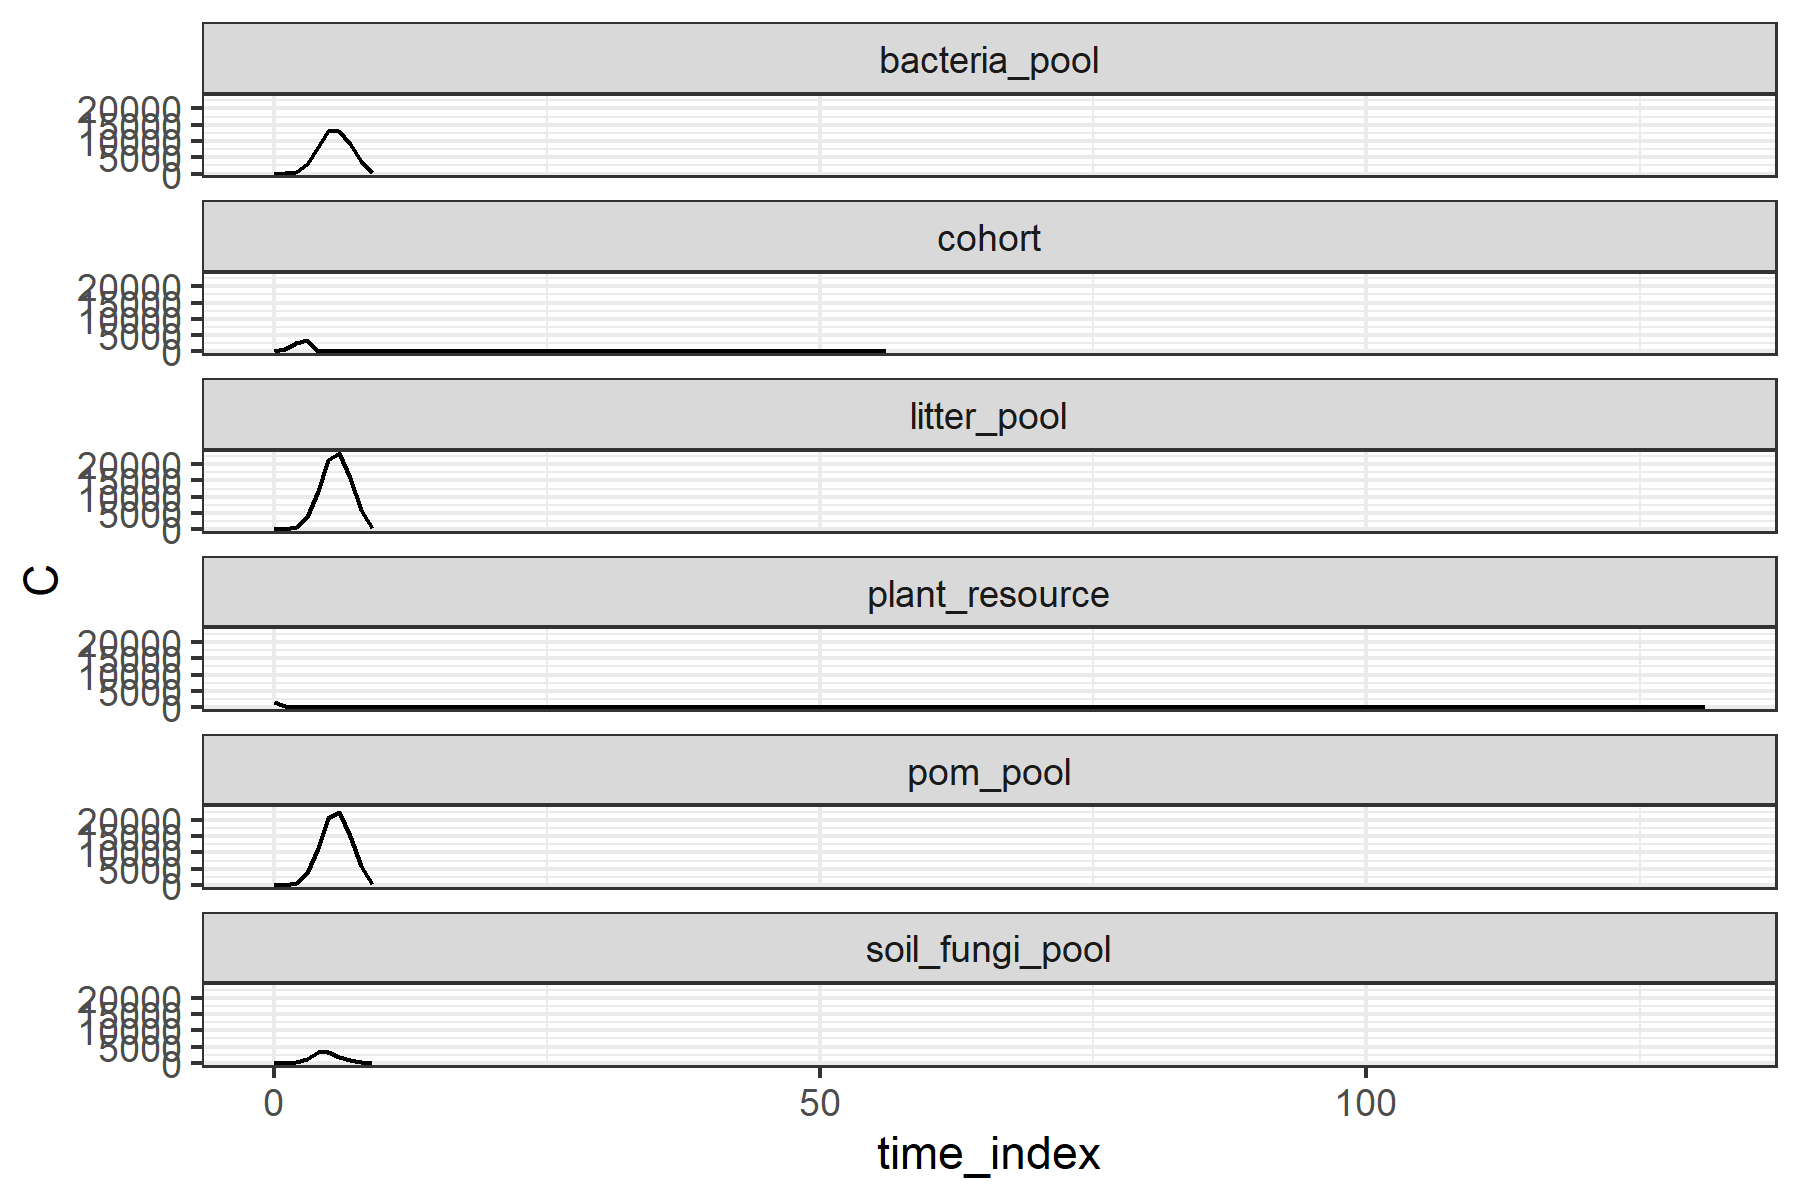
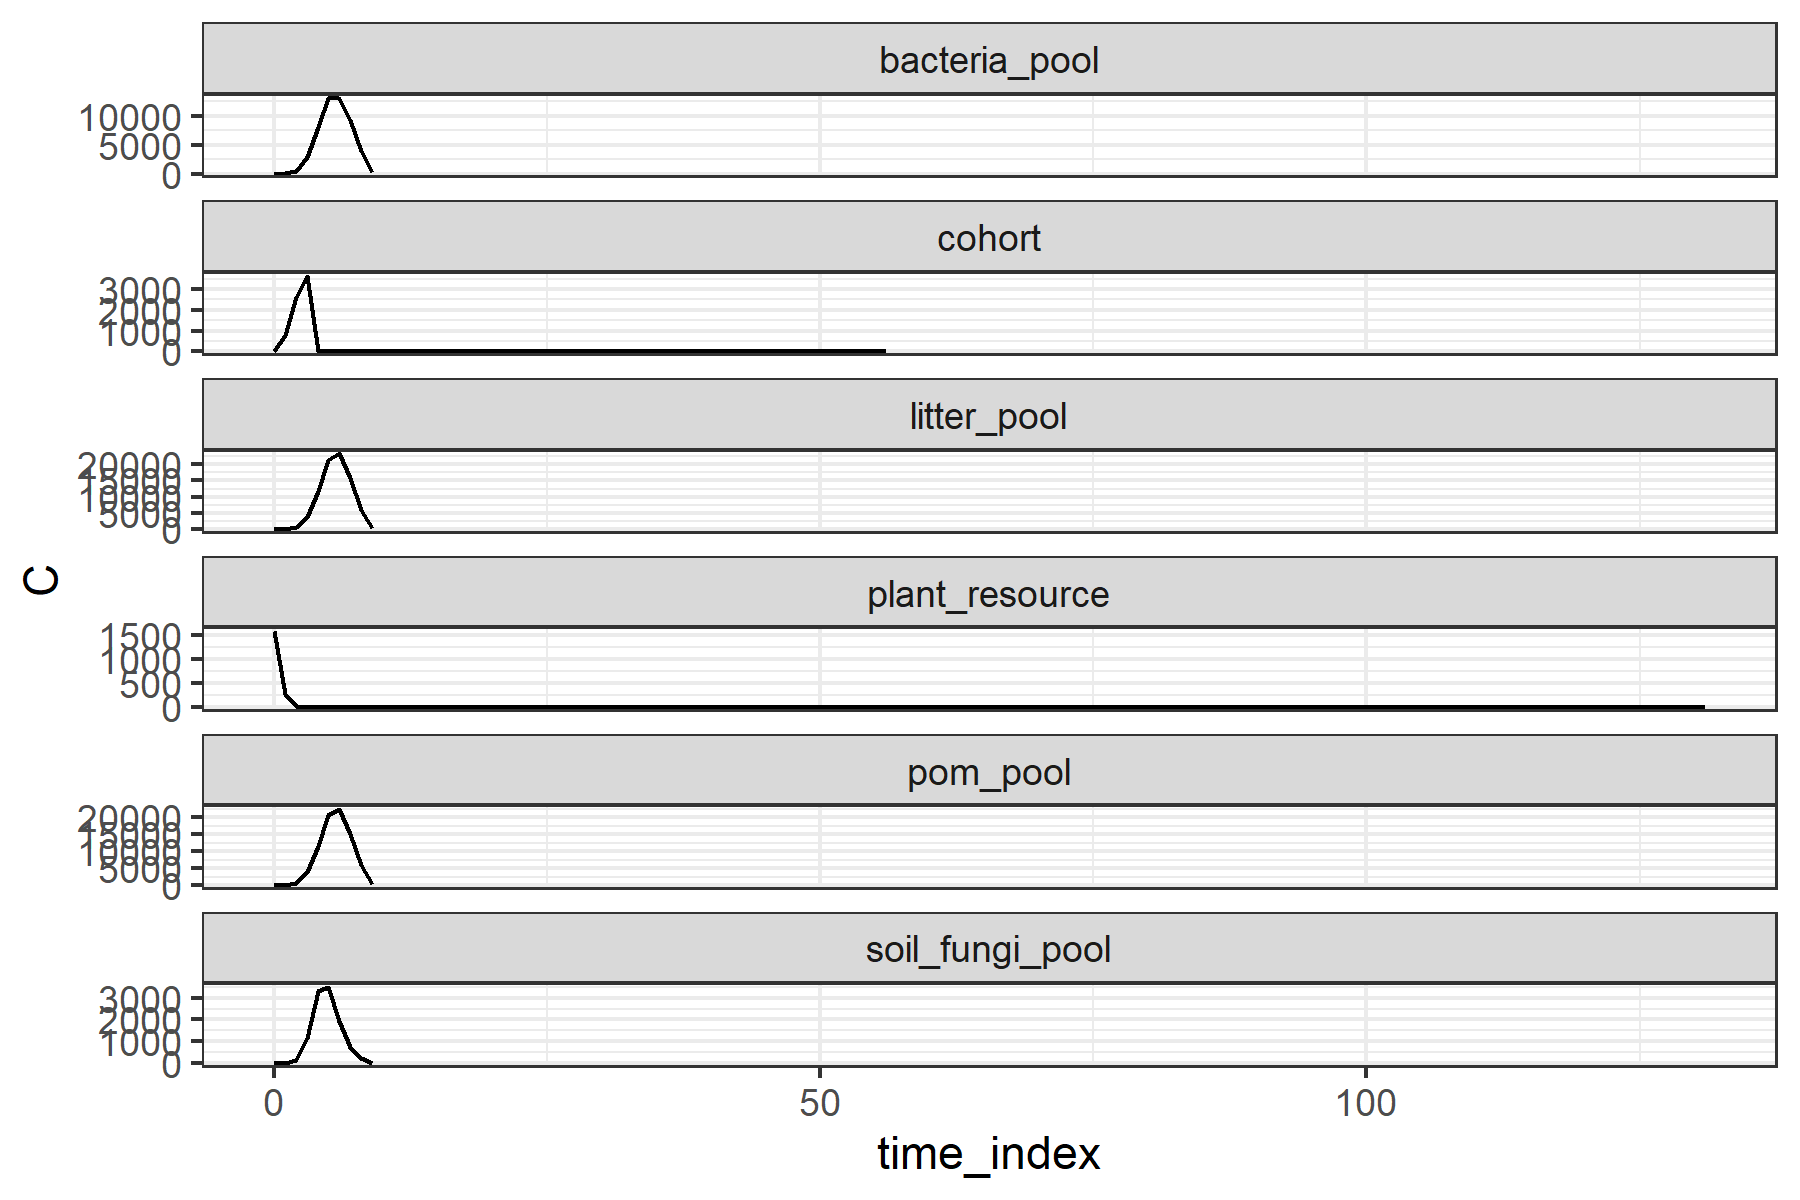
mark old text as outdated

diff --git a/analysis/animal/continuous_states/rendered/small_temporal_variation.md b/analysis/animal/continuous_states/rendered/small_temporal_variation.md
@@ -1,4 +1,4 @@
-# Empty forest? We need a scenario with persistent animal populations over the simulation period
+# Troubleshooting continuous outputs related to animals
 Lai, Hao Ran
 2026-08-10
 
@@ -17,17 +17,28 @@ source(here("tools/R/R/get_ve_variables.R"))
 
 ## Preamble
 
-I am conducting a sensitivity analysis for the soil and litter modules.
-A sensitivity analysis examines how much of the variation in an output
-is attributed to variation in an input. **However, if an output never
-varies, it is meaningless to conduct a sensitivity analysis.** This
-happens to a few animal-related outputs in the `all_continuous_data.nc`
-file. My gut feeling is that the lack of temporal variation is due to
-the animal FGs dying off, hence the exploration here.
+<div>
 
-At the end of this report, I explain why we might want to design a
-scenario where there is at least some persistent animal populations, at
-least for the purpose of sensitivity analyses.
+> **Outdated**
+>
+> I am conducting a sensitivity analysis for the soil and litter
+> modules. A sensitivity analysis examines how much of the variation in
+> an output is attributed to variation in an input. **However, if an
+> output never varies, it is meaningless to conduct a sensitivity
+> analysis.** This happens to a few animal-related outputs in the
+> `all_continuous_data.nc` file. My gut feeling is that the lack of
+> temporal variation is due to the animal FGs dying off, hence the
+> exploration here.
+>
+> At the end of this report, I explain why we might want to design a
+> scenario where there is at least some persistent animal populations,
+> at least for the purpose of sensitivity analyses.
+
+</div>
+
+Most if not all of the issues raised previously have been resolved. This
+report shows the some of the latest figures of VE outputs related to
+animal diet.
 
 ## Model and data summary
 
@@ -467,7 +478,7 @@ trophic_analysis$group_and_aggregate()
 py_to_r(trophic_analysis$group_df) |>
   ggplot() +
   geom_line(aes(time_index, C)) +
-  facet_wrap(~resource_kind, ncol = 1) +
+  facet_wrap(~resource_kind, scales = "free_y", ncol = 1) +
   theme_bw()
 ```
 

diff --git a/analysis/animal/continuous_states/small_temporal_variation.md b/analysis/animal/continuous_states/small_temporal_variation.md
@@ -12,7 +12,7 @@ jupyter:
     language: python
     name: python3
     path: C:\Users\User\AppData\Local\Python\pythoncore-3.14-64\share\jupyter\kernels\python3
-title: Empty forest? We need a scenario with persistent animal populations over the simulation period
+title: Troubleshooting continuous outputs related to animals
 author:
   name: Lai, Hao Ran
 date: last-modified
@@ -40,9 +40,17 @@ source(here("tools/R/R/get_ve_variables.R"))
 
 ## Preamble
 
+::: {.callout-caution collapse="false"}
+
+## Outdated
+
 I am conducting a sensitivity analysis for the soil and litter modules. A sensitivity analysis examines how much of the variation in an output is attributed to variation in an input. **However, if an output never varies, it is meaningless to conduct a sensitivity analysis.** This happens to a few animal-related outputs in the `all_continuous_data.nc` file. My gut feeling is that the lack of temporal variation is due to the animal FGs dying off, hence the exploration here.
 
 At the end of this report, I explain why we might want to design a scenario where there is at least some persistent animal populations, at least for the purpose of sensitivity analyses.
+
+:::
+
+Most if not all of the issues raised previously have been resolved. This report shows the some of the latest figures of VE outputs related to animal diet.
 
 ## Model and data summary
 
@@ -246,7 +254,7 @@ trophic_analysis$group_and_aggregate()
 py_to_r(trophic_analysis$group_df) |>
   ggplot() +
   geom_line(aes(time_index, C)) +
-  facet_wrap(~resource_kind, ncol = 1) +
+  facet_wrap(~resource_kind, scales = "free_y", ncol = 1) +
   theme_bw()
 ```
 
